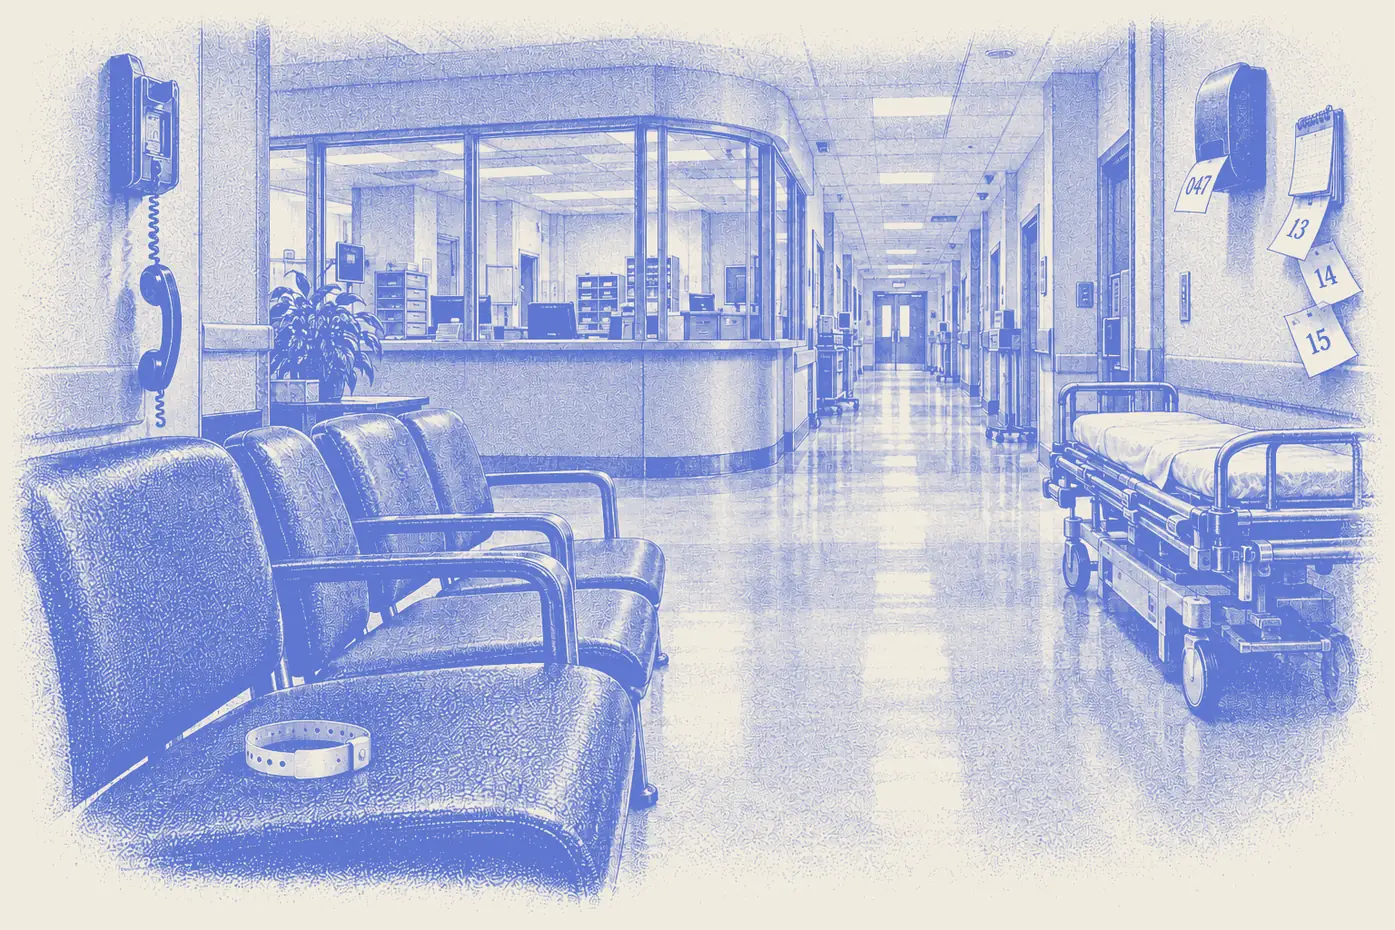
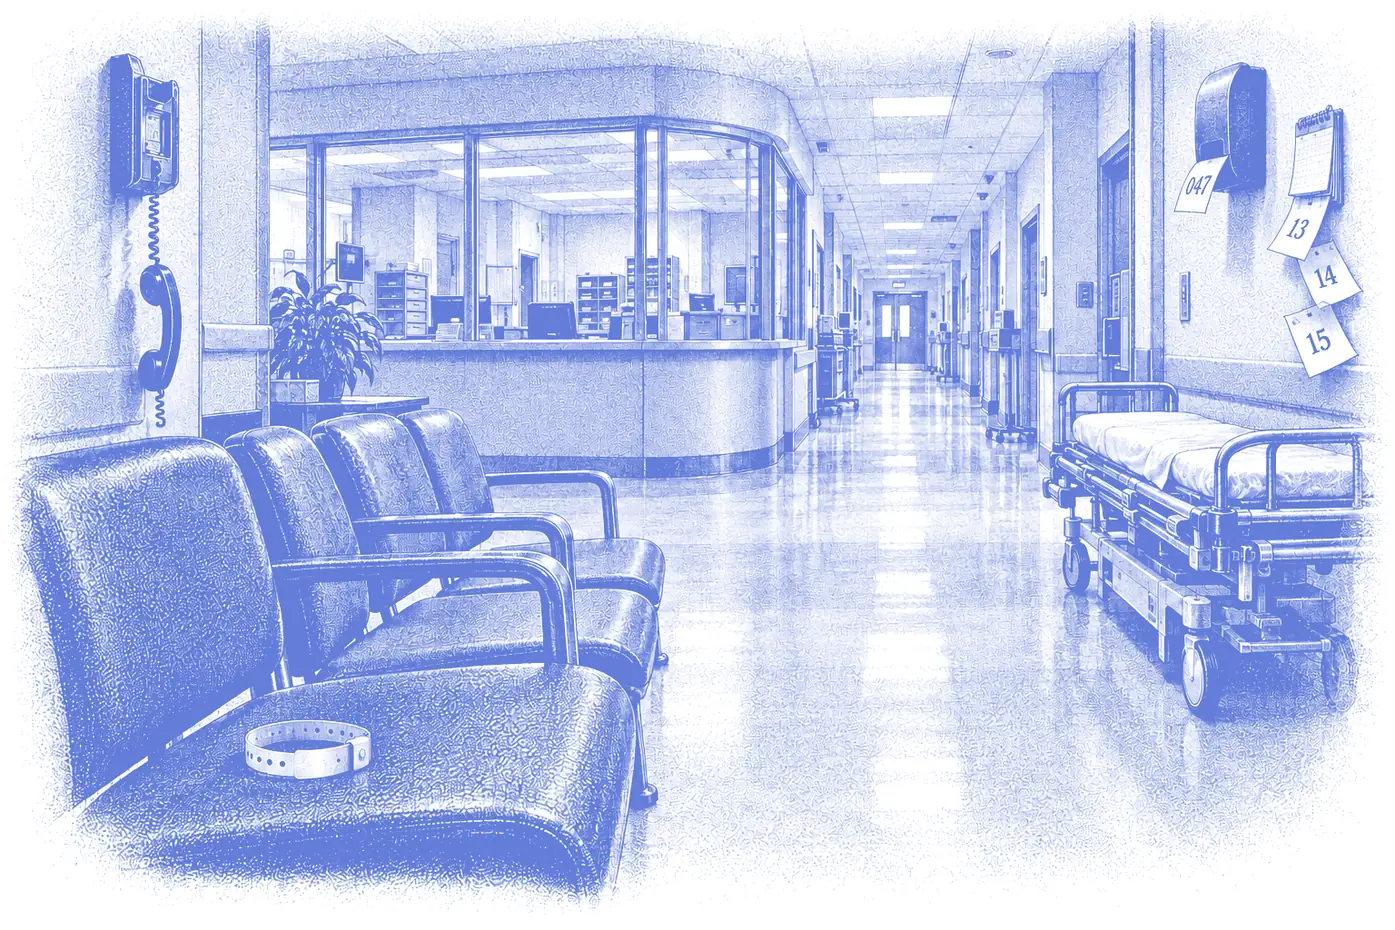
Preview C: black header with frosted glass on scroll, colour haze in hero
Claude-Session: https://claude.ai/code/session_01CXQSqFKQXSodRmwakQXP36

diff --git a/css/styles.css b/css/styles.css
@@ -63,24 +63,30 @@ em { font-style: italic; }
 .js .reveal { opacity: 0; transform: translateY(28px); transition: opacity .8s cubic-bezier(.2,.7,.2,1), transform .8s cubic-bezier(.2,.7,.2,1); }
 .js .reveal.is-visible { opacity: 1; transform: none; }
 
-/* ---------- Header ---------- */
-.site-header { position: sticky; top: 0; z-index: 50; background: var(--bone); border-bottom: 1px solid var(--ink); }
+/* ---------- Header ----------
+   Solid black at the top of the page. Once the page scrolls,
+   main.js adds .is-scrolled and it turns to frosted glass. */
+.site-header { position: sticky; top: 0; z-index: 50; background: var(--ink); color: var(--bone); border-bottom: 1px solid var(--ink); transition: background-color .35s ease, border-color .35s ease; }
+.site-header.is-scrolled { background: rgba(20,20,20,.84); border-bottom-color: rgba(241,235,223,.1); -webkit-backdrop-filter: blur(16px) saturate(1.3); backdrop-filter: blur(16px) saturate(1.3); }
 .header-inner { display: flex; align-items: center; justify-content: space-between; gap: 24px; padding-top: 32px; padding-bottom: 32px; }
 .wordmark { font-size: 24px; font-weight: 800; letter-spacing: -.01em; line-height: 1.05; text-decoration: none; color: var(--ink); }
 .wordmark:hover { color: var(--ink); }
+.site-header .wordmark, .site-header .wordmark:hover { color: var(--bone); }
 .site-nav { display: flex; align-items: center; gap: 36px; font-size: 15px; font-weight: 500; }
-.site-nav a { text-decoration: none; }
-.site-nav .nav-cta { background: var(--ink); color: var(--bone); padding: 14px 22px; }
-.site-nav .nav-cta:hover { background: var(--red); color: var(--bone); }
+.site-nav a { text-decoration: none; color: var(--bone); }
+.site-nav a:hover { color: var(--red-bright); }
+.site-nav .nav-cta { background: var(--red); color: var(--bone); padding: 14px 22px; }
+.site-nav .nav-cta:hover { background: #A92A16; color: var(--bone); }
 .menu-btn { display: none; }
 
 /* ---------- 1 Hero ---------- */
-.hero { position: relative; overflow: hidden; }
+.hero { position: relative; overflow: hidden; isolation: isolate; }
+.hero .blob { --blur: 140px; }
 .hero-art { position: absolute; right: 0; top: 10.5vw; width: 64.583vw; aspect-ratio: 3 / 2; }
-.hero-art img { width: 100%; height: 100%; object-fit: cover;
+.hero-art img { width: 100%; height: 100%; object-fit: cover; mix-blend-mode: multiply;
   -webkit-mask-image: linear-gradient(to right, transparent 0%, transparent 34%, rgba(0,0,0,.35) 46%, #000 64%);
           mask-image: linear-gradient(to right, transparent 0%, transparent 34%, rgba(0,0,0,.35) 46%, #000 64%); }
-.hero-art-fade { position: absolute; left: 14%; top: 45%; width: 51.6%; height: 58%; background: radial-gradient(ellipse at 50% 45%, rgba(241,235,223,.75) 0%, rgba(241,235,223,.5) 40%, rgba(241,235,223,0) 72%); }
+.hero-art-fade { display: none; position: absolute; left: 14%; top: 45%; width: 51.6%; height: 58%; background: radial-gradient(ellipse at 50% 45%, rgba(241,235,223,.75) 0%, rgba(241,235,223,.5) 40%, rgba(241,235,223,0) 72%); }
 .hero-inner { display: flex; flex-direction: column; gap: 40px; padding-top: clamp(64px, 10vw, 144px); padding-bottom: 56px; }
 .hero-head { display: flex; flex-direction: column; gap: 28px; }
 .hero-eyebrow { font-size: clamp(18px, 2.083vw, 30px); font-weight: 800; letter-spacing: .06em; text-transform: uppercase; line-height: 1; color: var(--red); }
@@ -223,20 +229,21 @@ em { font-style: italic; }
   /* Header + menu */
   .header-inner { padding-top: 14px; padding-bottom: 14px; gap: 12px; }
   .wordmark { font-size: 18px; line-height: 1.08; }
-  .menu-btn { display: flex; align-items: center; justify-content: center; width: 44px; height: 44px; background: none; border: 1px solid var(--ink); color: var(--ink); cursor: pointer; padding: 0; }
+  .menu-btn { display: flex; align-items: center; justify-content: center; width: 44px; height: 44px; background: none; border: 1px solid var(--bone); color: var(--bone); cursor: pointer; padding: 0; }
   .menu-btn .icon-close { display: none; }
   .menu-btn[aria-expanded="true"] .icon-open { display: none; }
   .menu-btn[aria-expanded="true"] .icon-close { display: block; }
-  .site-nav { display: none; position: absolute; left: 0; right: 0; top: 100%; flex-direction: column; align-items: stretch; gap: 0; background: var(--bone); border-bottom: 1px solid var(--ink); padding: 8px 20px 20px; font-size: 18px; font-weight: 600; }
+  .site-nav { display: none; position: absolute; left: 0; right: 0; top: 100%; flex-direction: column; align-items: stretch; gap: 0; background: var(--ink); border-bottom: 1px solid var(--ink); padding: 8px 20px 20px; font-size: 18px; font-weight: 600; }
   .site-nav.is-open { display: flex; }
-  .site-nav a { padding: 16px 0; border-bottom: 1px solid rgba(20,20,20,.15); }
+  .site-nav a { padding: 16px 0; border-bottom: 1px solid rgba(241,235,223,.15); }
   .site-nav .nav-cta { margin-top: 16px; text-align: center; padding: 18px; border: 0; background: var(--red); }
 
   /* Hero */
   .hero { display: flex; flex-direction: column; }
   .hero-art { position: relative; order: 2; top: auto; width: 100%; aspect-ratio: auto; height: 210px; margin-top: 8px; margin-bottom: 28px; }
-  .hero-art img { object-position: 60% center; -webkit-mask-image: linear-gradient(to bottom, transparent 0%, #000 22%); mask-image: linear-gradient(to bottom, transparent 0%, #000 22%); }
+  .hero-art img { object-position: 60% center; mix-blend-mode: multiply; -webkit-mask-image: linear-gradient(to bottom, transparent 0%, #000 22%); mask-image: linear-gradient(to bottom, transparent 0%, #000 22%); }
   .hero-art-fade { display: none; }
+  .hero .blob { --blur: 70px; }
   .hero-inner { order: 1; padding-top: 40px; padding-bottom: 0; gap: 22px; }
   .hero-eyebrow { display: none; }
   .hero h1 { font-size: clamp(40px, 11.8vw, 64px); line-height: 1.06; letter-spacing: -.025em; }

diff --git a/index.html b/index.html
@@ -5,7 +5,7 @@
 <meta name="viewport" content="width=device-width, initial-scale=1">
 <title>Psychiatric Care Coalition of Canada | Equal psychiatric care. Every ER. Every province.</title>
 <meta name="description" content="The Psychiatric Care Coalition of Canada is fighting for equal psychiatric care in every ER and every province, better research funding and humane care at the front line.">
-<meta name="theme-color" content="#F1EBDF">
+<meta name="theme-color" content="#141414">
 
 <meta property="og:type" content="website">
 <meta property="og:site_name" content="Psychiatric Care Coalition of Canada">
@@ -51,6 +51,8 @@
 
   <!-- 1 HERO -->
   <section id="top" class="hero">
+    <span class="blob" style="--c:#F2B9A4; --o:.7; left:-12%; top:-20%; width:60%; height:85%"></span>
+    <span class="blob" style="--c:#B9C6F2; --o:.65; right:-10%; bottom:-25%; width:55%; height:80%"></span>
     <div class="hero-art" aria-hidden="true">
       <img src="/assets/images/er-waiting-room-1395.webp"
            srcset="/assets/images/er-waiting-room-780.webp 780w, /assets/images/er-waiting-room-1395.webp 1395w"

diff --git a/js/main.js b/js/main.js
@@ -25,6 +25,14 @@
     });
   }
 
+  // ---------- Frosted header once the page scrolls ----------
+  var header = document.querySelector('.site-header');
+  if (header) {
+    var onScroll = function () { header.classList.toggle('is-scrolled', window.scrollY > 8); };
+    onScroll();
+    window.addEventListener('scroll', onScroll, { passive: true });
+  }
+
   // ---------- FAQ accordion (one open at a time) ----------
   var items = Array.prototype.slice.call(document.querySelectorAll('.acc-item'));
   items.forEach(function (item) {
